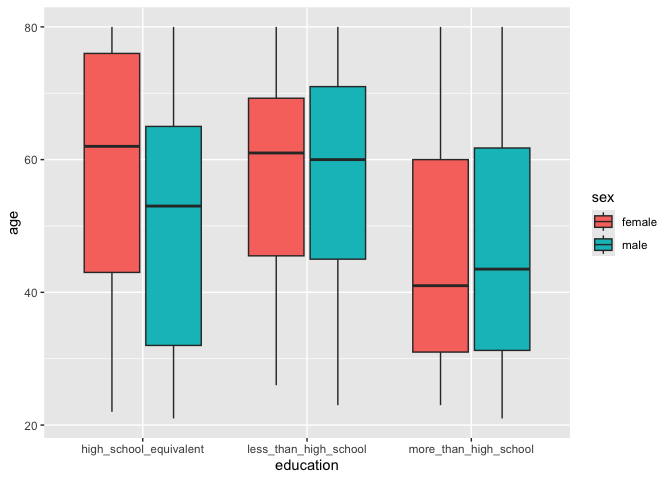
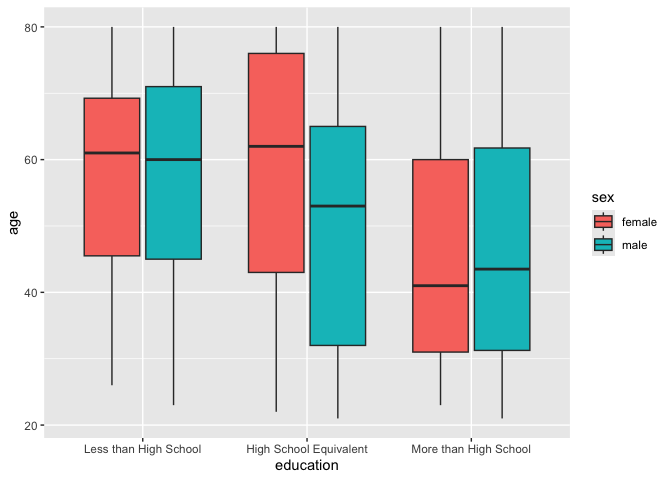
Q1 distribution of snowfall by year plot; fixing axix labels on other plots

diff --git a/p8105_fp2513_hw3.md b/p8105_fp2513_hw3.md
@@ -51,6 +51,12 @@ dated_ny_noaa =
   select(-date)
 ```
 
+There are now 2595176 observations with 9 variables. What was once the
+date variable which listed the dates out as “1981-01-01” now is
+separated into three distinct columns called year month and date, each
+filled with the respective value of that date. The date column is also
+subsequently deleted.
+
 **Ensure observations for temperature, precipitation, and snowfall are
 given in reasonable units.**
 
@@ -72,6 +78,10 @@ dated_ny_noaa =
          tmin = tmin / 10, 
          prcp = prcp / 10)
 ```
+
+The size of the dataframe does not change, but the values change. Since
+many of the values were to be changed to 10 times smaller entire column
+entries for the columns tmax, tmin, and prcp were divided by 10.
 
 **For snowfall, what are the most commonly observed values? Why?**
 
@@ -169,8 +179,44 @@ month had average recordings around 25 to 30 degrees Celsius.
 **Make a two-panel plot showing (i) tmax vs tmin for the full dataset
 (note that a scatterplot may not be the best option);**
 
+Denisty plots? Facet tmax and tmin Remove those with NA y = stations x =
+temperature dis
+
+Need to pivot longer tmax and tmin into a single column called
+temperature and a second column called temp_measure either tmax or tmin
+
 **(ii) make a plot showing the distribution of snowfall values greater
 than 0 and less than 100 separately by year.**
+
+``` r
+dated_ny_noaa %>%
+  filter(snow > 0 & snow < 100) %>% 
+  ggplot(aes(x = as.factor(year), y = snow, fill = as.factor(year))) +
+  geom_boxplot() +
+  labs(title = "Boxplot of Snowfall Values (0 < snowfall < 100) by Year",
+       x = "Year",
+       y = "Snowfall (mm)",
+       fill = "Year") +
+  theme_minimal()
+```
+
+![](p8105_fp2513_hw3_files/figure-gfm/unnamed-chunk-8-1.png)<!-- -->
+
+If we just count the snowfall values from 0 to 100mm, the years from
+1981 to 1997 show very similar distributions, with seemingly identical
+interquartile ranges and median values. In the year 1998 we see some
+values considered as outliers, this suggests that there was a larger
+count of days where the snowfall was lesser, and pulling the
+interquartile range third quartile lower compared to previous years.
+However, the median value is still similar suggesting a similar
+distribution in the first and second quartile but smaller distribution
+in the third quartile.
+
+It also seems that the snowfall distribution from 2004 to 2010 is quite
+inconsistent compared to previous years. This is denoted by
+non-identical interquartile ranges and the appearance of outliers
+particularly in 2006 and 2010. Despite this, the median snowfall value
+across all years has been consistent.
 
 ## Problem 2
 
@@ -295,7 +341,10 @@ Sex_Edu_df %>%
     names_to = "sex", 
     values_to = "count") %>% 
   mutate(
-    education = factor(education, levels = c("less_than_high_school", "high_school_equivalent", "more_than_high_school"))
+    education = factor(education, levels = c("less_than_high_school", "high_school_equivalent", "more_than_high_school"),
+                       labels = c("Less than High School", 
+                                  "High School Equivalent", 
+                                  "More than High School"))
   ) %>% 
   ggplot(aes(x = education, y = count, fill = sex)) + 
   geom_bar(stat = "identity", position = "dodge") +
@@ -306,19 +355,22 @@ Sex_Edu_df %>%
   theme_minimal()
 ```
 
-![](p8105_fp2513_hw3_files/figure-gfm/unnamed-chunk-13-1.png)<!-- -->
+![](p8105_fp2513_hw3_files/figure-gfm/unnamed-chunk-14-1.png)<!-- -->
 
 ``` r
 Demo_Acc_Join_df %>% 
   group_by(education, sex) %>% 
   mutate(
-    education = factor(education, levels = c("less_than_high_school", "high_school_equivalent", "more_than_high_school"))
+    education = factor(education, levels = c("less_than_high_school", "high_school_equivalent", "more_than_high_school"),
+                       labels = c("Less than High School", 
+                                  "High School Equivalent", 
+                                  "More than High School"))
   ) %>% 
   ggplot(aes(x = education, y = age, fill = sex)) +
   geom_boxplot()
 ```
 
-![](p8105_fp2513_hw3_files/figure-gfm/unnamed-chunk-14-1.png)<!-- -->
+![](p8105_fp2513_hw3_files/figure-gfm/unnamed-chunk-15-1.png)<!-- -->
 
 In general there are a significantly greater number of participants in
 this study that have a ‘more than high school’ education level (~ 80000
@@ -365,12 +417,16 @@ Daily_act_df =
 daily_act_edu_sex_p = 
   Daily_act_df %>% 
   mutate(
-    education = factor(education, levels = c("less_than_high_school", "high_school_equivalent", "more_than_high_school"))
+    education = factor(education, levels = c("less_than_high_school", "high_school_equivalent", "more_than_high_school"),
+                       labels = c("Less than High School", 
+                                  "High School Equivalent", 
+                                  "More than High School"))
   ) %>% 
   ggplot(aes(x = age, y = daily_activity, color = sex)) + 
   geom_point(alpha = .5) + 
   geom_smooth(aes(group = sex), se = FALSE) + 
-  facet_grid(. ~ education) + 
+  facet_grid(. ~ education) +
+  labs(y = "Daily Activity") +
   theme_minimal()
 
 print(daily_act_edu_sex_p)
@@ -378,7 +434,7 @@ print(daily_act_edu_sex_p)
 
     ## `geom_smooth()` using method = 'gam' and formula = 'y ~ s(x, bs = "cs")'
 
-![](p8105_fp2513_hw3_files/figure-gfm/unnamed-chunk-16-1.png)<!-- -->
+![](p8105_fp2513_hw3_files/figure-gfm/unnamed-chunk-17-1.png)<!-- -->
 
 There seems to be a general downward trend where as the participant gets
 older their total daily activity decreases too.
@@ -408,7 +464,10 @@ including smooth trends may help identify differences.**
 ``` r
 Daily_act_df %>% 
   mutate(
-    education = factor(education, levels = c("less_than_high_school", "high_school_equivalent", "more_than_high_school"))
+    education = factor(education, levels = c("less_than_high_school", "high_school_equivalent", "more_than_high_school"),
+                       labels = c("Less than High School", 
+                                  "High School Equivalent", 
+                                  "More than High School"))
   ) %>% 
   mutate(
     minute = as.numeric(minute)
@@ -419,12 +478,13 @@ Daily_act_df %>%
   geom_point(alpha = .5) + 
   geom_smooth(aes(group = sex), se = FALSE) + 
   facet_grid(. ~ education) + 
+  labs(y = "MIMS values") +
   theme_minimal()
 ```
 
     ## `geom_smooth()` using method = 'gam' and formula = 'y ~ s(x, bs = "cs")'
 
-![](p8105_fp2513_hw3_files/figure-gfm/unnamed-chunk-17-1.png)<!-- -->
+![](p8105_fp2513_hw3_files/figure-gfm/unnamed-chunk-18-1.png)<!-- -->
 
 See that in across all three education levels there is a general rise
 and fall of activity as the hours pass in the day. This is consistent
@@ -709,7 +769,7 @@ Day_effect_p / (Month_effect_p + Year_effect_p)
 
     ## `geom_smooth()` using method = 'loess' and formula = 'y ~ x'
 
-![](p8105_fp2513_hw3_files/figure-gfm/unnamed-chunk-25-1.png)<!-- -->
+![](p8105_fp2513_hw3_files/figure-gfm/unnamed-chunk-26-1.png)<!-- -->
 
 By the Median Ride Duration by Day of Week graph, it is obvious that the
 median ride duration over the weekend is significantly longer than those
@@ -737,7 +797,11 @@ Citi_tidy_df %>%
     date = as.character(date),
     year = case_when(
       grepl("2020", date) ~ "2020",
-      grepl("2024", date) ~ "2024")) %>% 
+      grepl("2024", date) ~ "2024"),
+    bike_type = factor(bike_type, 
+                       levels = c("classic_bike", "electric_bike"), 
+                       labels = c("Classic Bike", "Electric Bike"))
+  ) %>%  
   filter(year == "2024") %>% 
   ggplot(aes(x = ride_duration, fill = membership_status)) +
   geom_density(alpha = 0.5) + 
@@ -750,7 +814,7 @@ Citi_tidy_df %>%
   theme(legend.position = "top")
 ```
 
-![](p8105_fp2513_hw3_files/figure-gfm/unnamed-chunk-26-1.png)<!-- -->
+![](p8105_fp2513_hw3_files/figure-gfm/unnamed-chunk-27-1.png)<!-- -->
 
 In general there is a large distribution of ride duration, expected due
 to each rider having their intended purpose for the ride. But most ride
